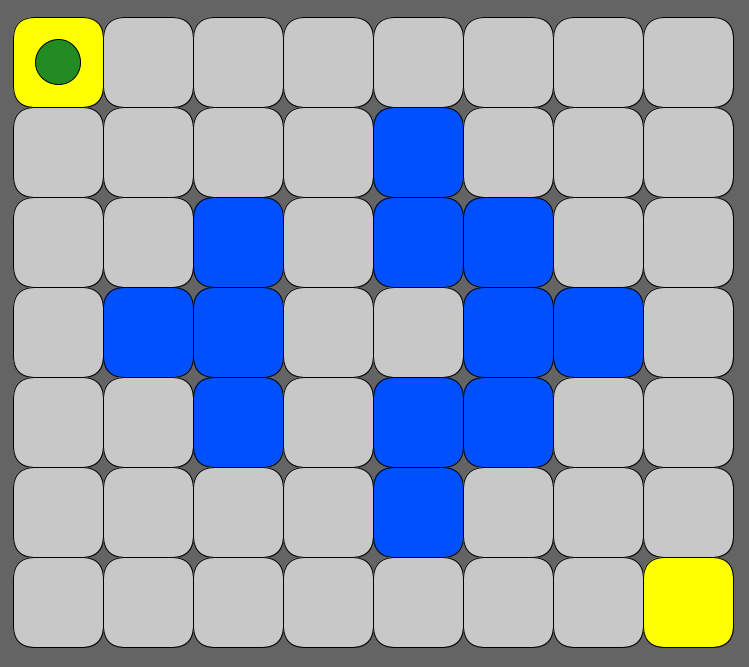
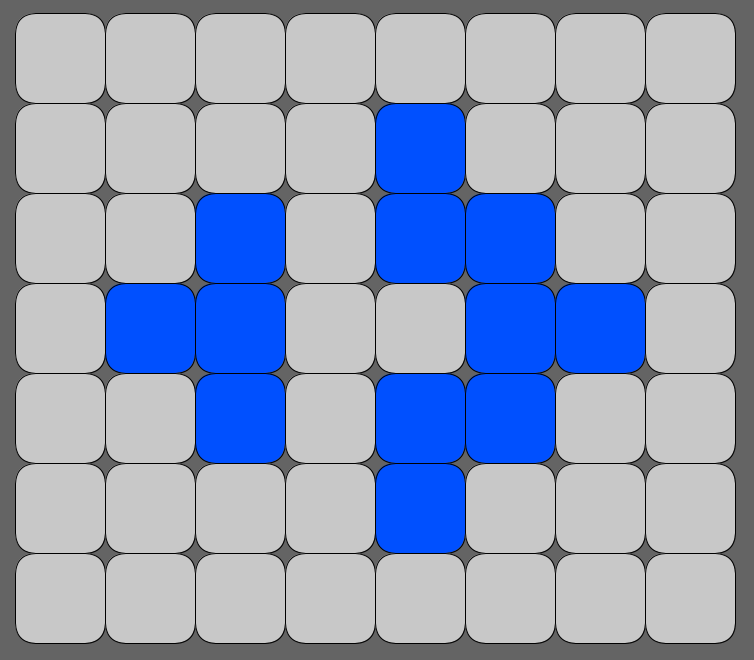
Add 01_example_maze_neighbors_count.png

diff --git a/src/main/java/mayz/Maze.java b/src/main/java/mayz/Maze.java
@@ -482,7 +482,8 @@ public class Maze {
             game.fill(0, 80, 255);
         }
         if (game.maze.currentIsStart(row, column) || game.maze.currentIsEnd(row, column)) {
-            game.fill(255, 255, 0);
+            game.fill(200);
+            // game.fill(255, 255, 0);
         }
 
         game.rect(column * game.csz, row * game.csz, game.csz, game.csz, game.csz / 4);

diff --git a/src/main/java/mayz/GameFunMode.java b/src/main/java/mayz/GameFunMode.java
@@ -18,7 +18,7 @@ public class GameFunMode extends Game {
         fill(255);
         stroke(0);
         maze.draw(this);
-        player.draw(this);
+        // player.draw(this);
     }
 
     public void keyPressed() {

diff --git a/README.md b/README.md
@@ -4,12 +4,24 @@ Um **autômato celular** é um modelo matemático e computacional que descreve c
 
 Meio abstrato né, vamos pegar um exemplo para entender melhor.
 
-Considere o tabuleiro a seguir, que possui 7 linhas e 8 colunas.
-
+Considere o tabuleiro a seguir, que possui 7 linhas e 8 colunas. Nele, as células azúis estão ativas, já as de cor cinza estão inativas.
 
 <p align="center">
   <img src="https://github.com/ZaqueuCavalcante/mayz/blob/master/docs/00_example_maze.png?raw=true" style="display: block; margin: 0 auto" />
 </p>
+
+Vamos alterar o estado das células ao longo do tempo, utilizando as seguintes regras:
+
+- As células cinza com 2 ou 3 vizinhos azúis viram azúis na próxima geração.
+- As células azúis com 4 ou 5 ou 6 vizinhos azúis permanecem azúis. Do contrário, viram cinza.
+
+Veja a quantidade de vizinhos azúis de cada célula a seguir (cada célula pode ter até no máximo 8 vizinhos azúis):
+
+<p align="center">
+  <img src="https://github.com/ZaqueuCavalcante/mayz/blob/master/docs/01_example_maze_neighbors_count.png?raw=true" style="display: block; margin: 0 auto" />
+</p>
+
+
 
 
 
